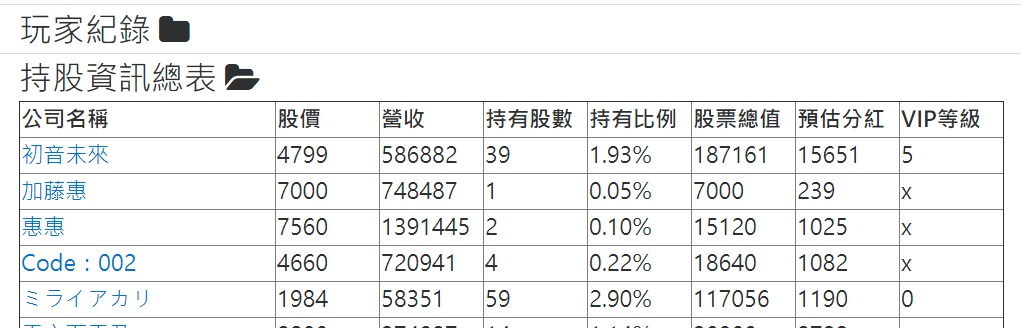
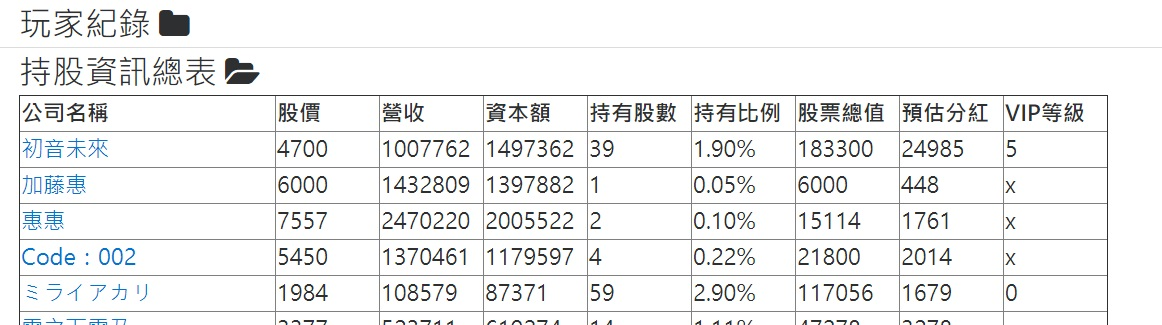
在 持股資訊總表 增加 資本額 欄位

Changed region(s): [[0.0, 0.0, 1.0, 1.0]]

diff --git a/SoftwareScript-after babel.js b/SoftwareScript-after babel.js
@@ -16,7 +16,7 @@ function _classCallCheck(instance, Constructor) { if (!(instance instanceof Cons
 // ==UserScript==
 // @name         ACGN-stock營利統計外掛
 // @namespace    http://tampermonkey.net/
-// @version      5.08.02
+// @version      5.08.03
 // @description  隱藏著排他力量的分紅啊，請在我面前顯示你真正的面貌，與你締結契約的VIP命令你，封印解除！
 // @author       SoftwareSing
 // @match        http://acgn-stock.com/*
@@ -3731,7 +3731,7 @@ var AccountInfoController = function (_EventController3) {
   }, {
     key: 'holdStocksTableInfo',
     value: function holdStocksTableInfo() {
-      var tHead = [translation(['company', 'name']), translation(['company', 'price']), translation(['company', 'profit']), translation(['accountInfo', 'holdStocks']), translation(['accountInfo', 'holdPercentage']), translation(['accountInfo', 'stockAsset']), translation(['accountInfo', 'estimatedProfit']), translation(['accountInfo', 'vipLevel'])];
+      var tHead = [translation(['company', 'name']), translation(['company', 'price']), translation(['company', 'profit']), translation(['company', 'capital']), translation(['accountInfo', 'holdStocks']), translation(['accountInfo', 'holdPercentage']), translation(['accountInfo', 'stockAsset']), translation(['accountInfo', 'estimatedProfit']), translation(['accountInfo', 'vipLevel'])];
       var tBody = [];
 
       var holdStocks = JSON.parse(JSON.stringify(this.user.holdStocks));
@@ -3790,6 +3790,7 @@ var AccountInfoController = function (_EventController3) {
             row.push('<a href=\'/company/detail/' + companyData.companyId + '\'>' + companyData.name + '</a>');
             row.push(companyData.price);
             row.push(Math.ceil(companyData.profit));
+            row.push(companyData.capital);
             row.push(holdC.stocks);
             row.push((holdC.stocks / companyData.release * 100).toFixed(2) + '%');
             row.push(companyData.price * holdC.stocks);
@@ -3833,6 +3834,7 @@ var AccountInfoController = function (_EventController3) {
 
           var row = [];
           row.push('<a href=\'/company/detail/' + _holdC.companyId + '\'>' + translation(['accountInfo', 'notFoundCompany']) + '</a>');
+          row.push('???');
           row.push('???');
           row.push('???');
           row.push(_holdC.stocks);

diff --git a/ACGNs-SoftwareScript.user.js b/ACGNs-SoftwareScript.user.js
@@ -2,7 +2,7 @@
 // ==UserScript==
 // @name         ACGN-stock營利統計外掛
 // @namespace    http://tampermonkey.net/
-// @version      5.08.02
+// @version      5.08.03
 // @description  隱藏著排他力量的分紅啊，請在我面前顯示你真正的面貌，與你締結契約的VIP命令你，封印解除！
 // @author       SoftwareSing
 // @match        http://acgn-stock.com/*
@@ -2852,6 +2852,7 @@ class AccountInfoController extends EventController {
       translation(['company', 'name']),
       translation(['company', 'price']),
       translation(['company', 'profit']),
+      translation(['company', 'capital']),
       translation(['accountInfo', 'holdStocks']),
       translation(['accountInfo', 'holdPercentage']),
       translation(['accountInfo', 'stockAsset']),
@@ -2885,6 +2886,7 @@ class AccountInfoController extends EventController {
         row.push(`<a href='/company/detail/${companyData.companyId}'>${companyData.name}</a>`);
         row.push(companyData.price);
         row.push(Math.ceil(companyData.profit));
+        row.push(companyData.capital);
         row.push(holdC.stocks);
         row.push(`${((holdC.stocks / companyData.release) * 100).toFixed(2)}%`);
         row.push(companyData.price * holdC.stocks);
@@ -2903,6 +2905,7 @@ class AccountInfoController extends EventController {
     for (const holdC of notFoundList) {
       const row = [];
       row.push(`<a href='/company/detail/${holdC.companyId}'>${translation(['accountInfo', 'notFoundCompany'])}</a>`);
+      row.push('???');
       row.push('???');
       row.push('???');
       row.push(holdC.stocks);

diff --git a/src/AccountInfoPage/AccountInfoController.js b/src/AccountInfoPage/AccountInfoController.js
@@ -253,6 +253,7 @@ export class AccountInfoController extends EventController {
       translation(['company', 'name']),
       translation(['company', 'price']),
       translation(['company', 'profit']),
+      translation(['company', 'capital']),
       translation(['accountInfo', 'holdStocks']),
       translation(['accountInfo', 'holdPercentage']),
       translation(['accountInfo', 'stockAsset']),
@@ -286,6 +287,7 @@ export class AccountInfoController extends EventController {
         row.push(`<a href='/company/detail/${companyData.companyId}'>${companyData.name}</a>`);
         row.push(companyData.price);
         row.push(Math.ceil(companyData.profit));
+        row.push(companyData.capital);
         row.push(holdC.stocks);
         row.push(`${((holdC.stocks / companyData.release) * 100).toFixed(2)}%`);
         row.push(companyData.price * holdC.stocks);
@@ -304,6 +306,7 @@ export class AccountInfoController extends EventController {
     for (const holdC of notFoundList) {
       const row = [];
       row.push(`<a href='/company/detail/${holdC.companyId}'>${translation(['accountInfo', 'notFoundCompany'])}</a>`);
+      row.push('???');
       row.push('???');
       row.push('???');
       row.push(holdC.stocks);

diff --git a/src/main.js b/src/main.js
@@ -1,7 +1,7 @@
 // ==UserScript==
 // @name         ACGN-stock營利統計外掛
 // @namespace    http://tampermonkey.net/
-// @version      5.08.02
+// @version      5.08.03
 // @description  隱藏著排他力量的分紅啊，請在我面前顯示你真正的面貌，與你締結契約的VIP命令你，封印解除！
 // @author       SoftwareSing
 // @match        http://acgn-stock.com/*

diff --git a/README.md b/README.md
@@ -28,6 +28,8 @@ A script helps you play [acgn-stock.com](https://acgn-stock.com).
 * 帳面本益比 (未計算VIP加權股份時的本益比)
 * 排他本益比 (計算VIP加權股份後 真實的本益比)
 * 我的本益比 (依照使用者的VIP等級加權股份後得出的本益比)
+* 預估分紅 (已依照使用者的VIP等級加權)
+* 預估經理分紅 (僅該公司經理顯示此欄位)
 
 ![card-info](images/card.jpg)
 
@@ -53,6 +55,7 @@ A script helps you play [acgn-stock.com](https://acgn-stock.com).
 (欲更新資訊請重新打開該資料夾)
 * 股價
 * 營收
+* 資本額
 * 持有股數 (賣單中的股份一併列出，以下同)
 * 持有比例
 * 股票總值
